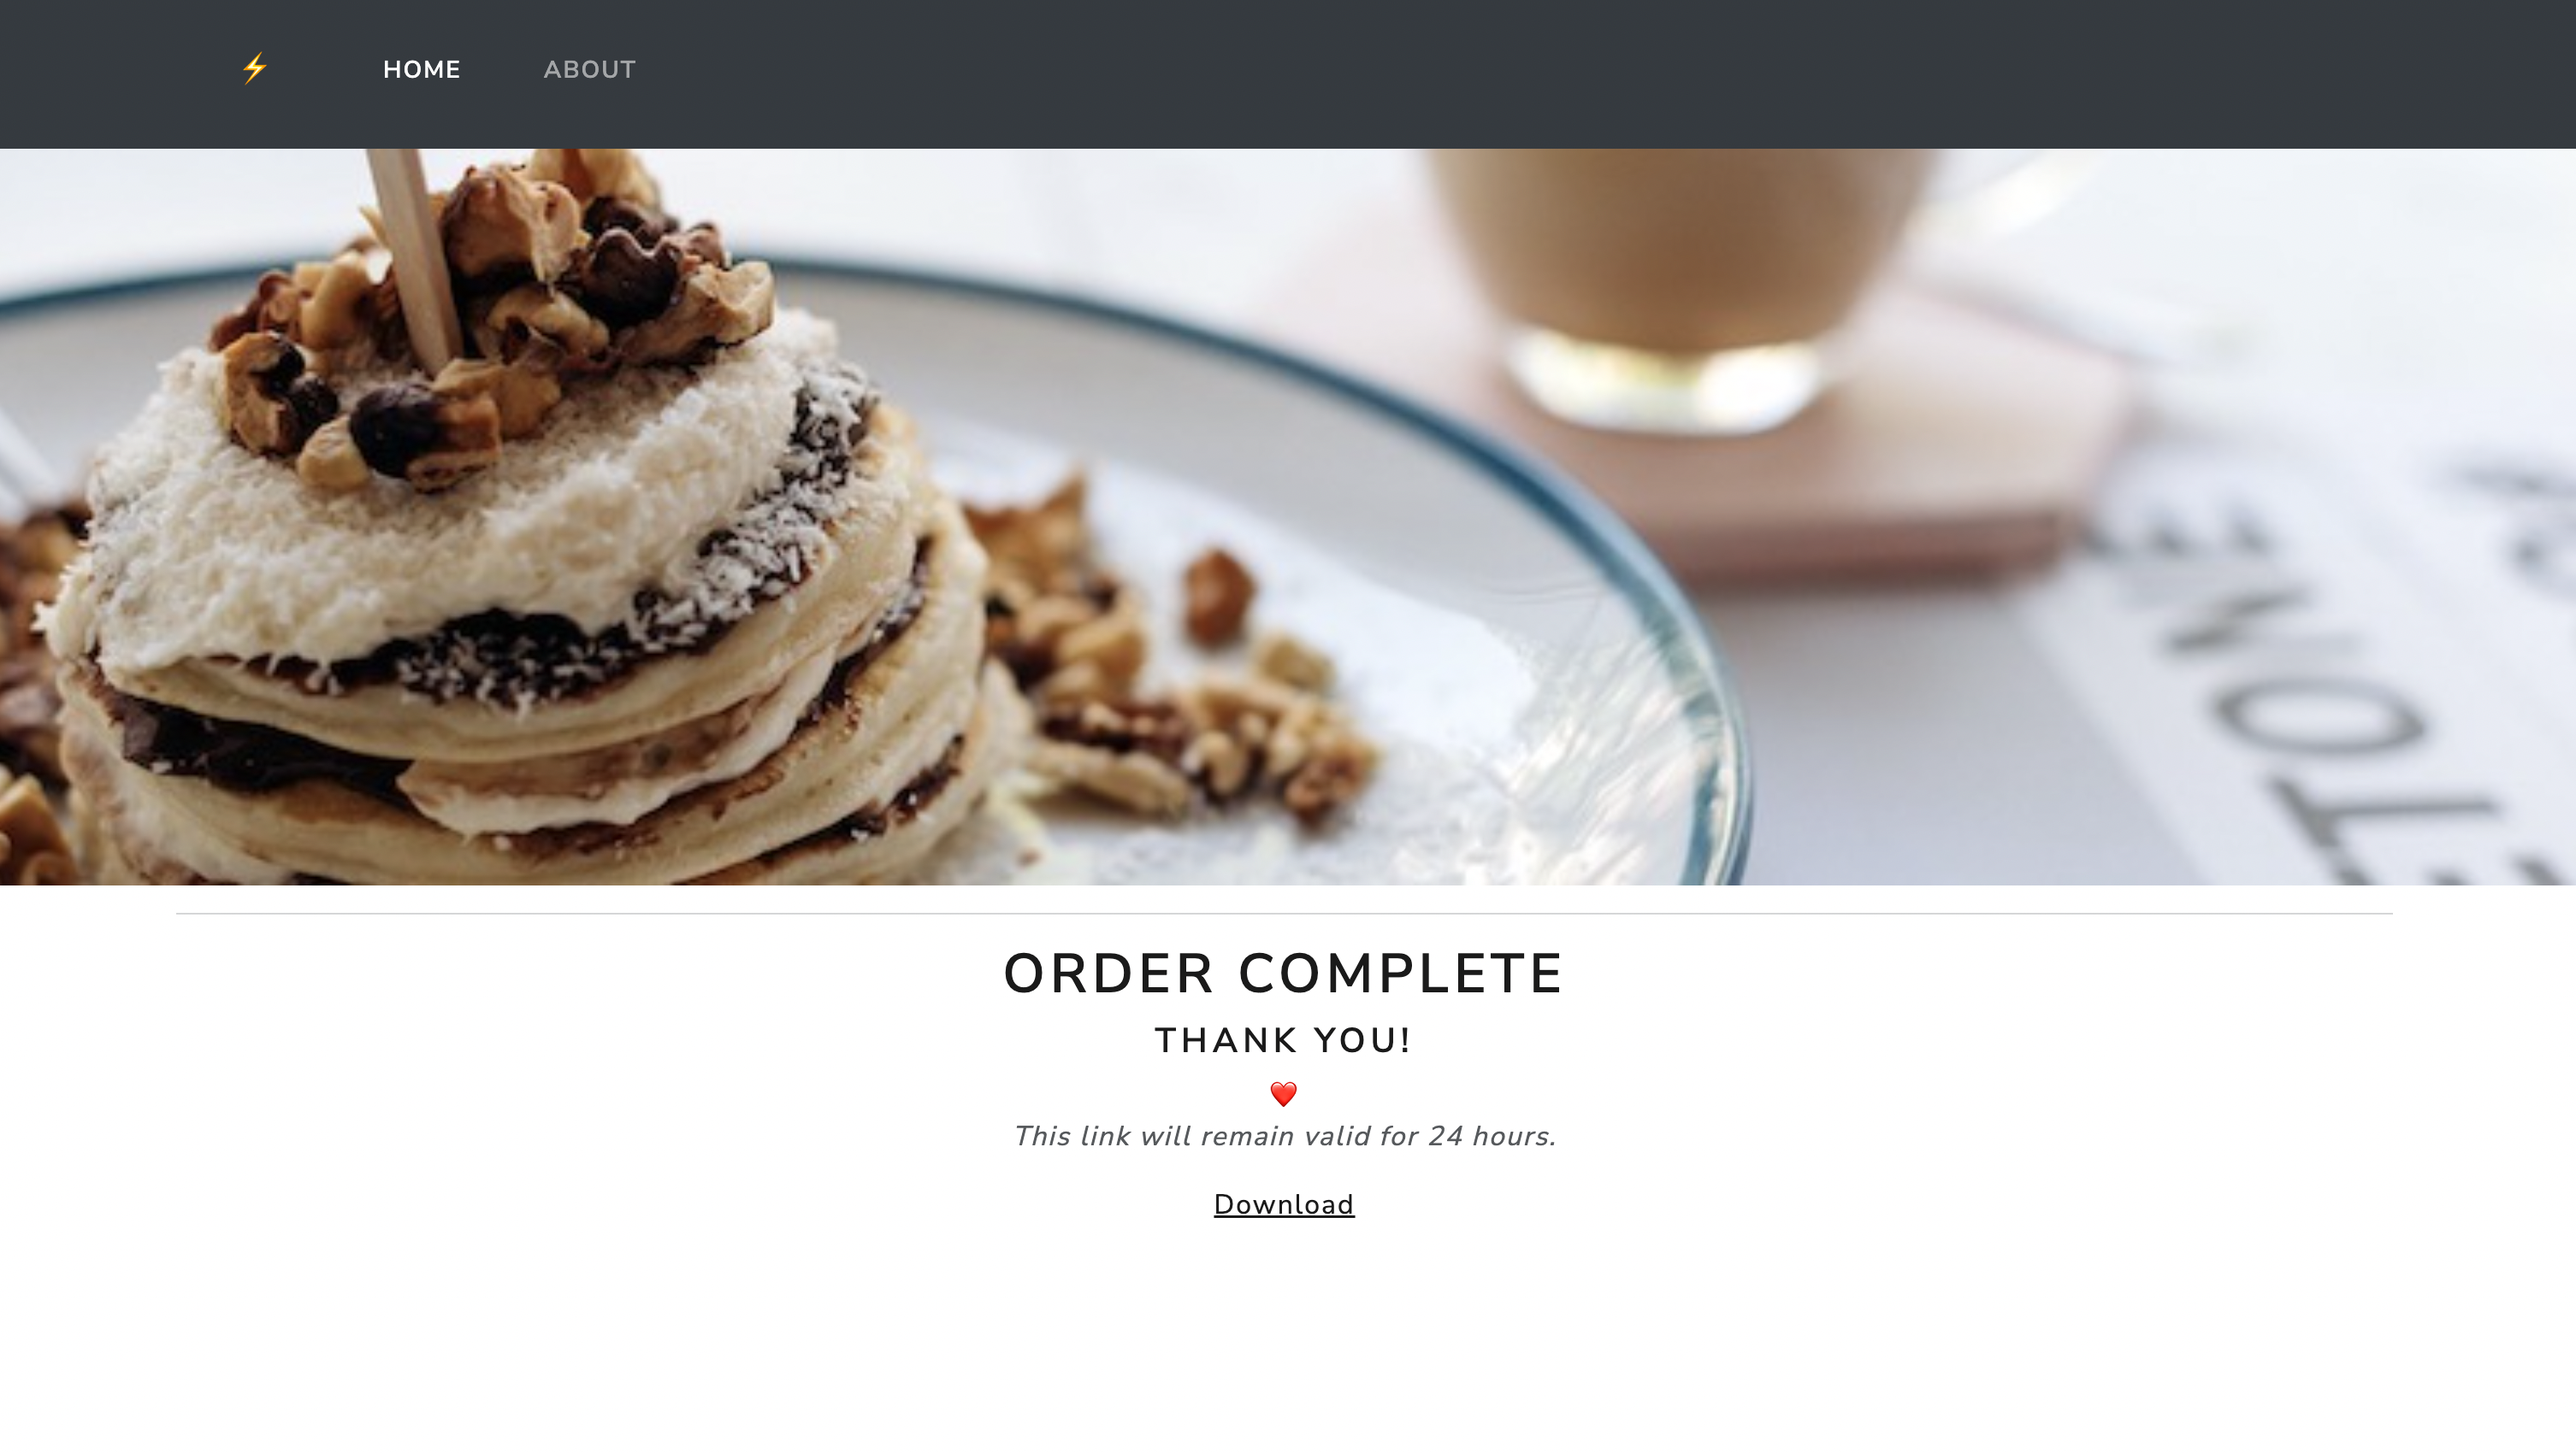
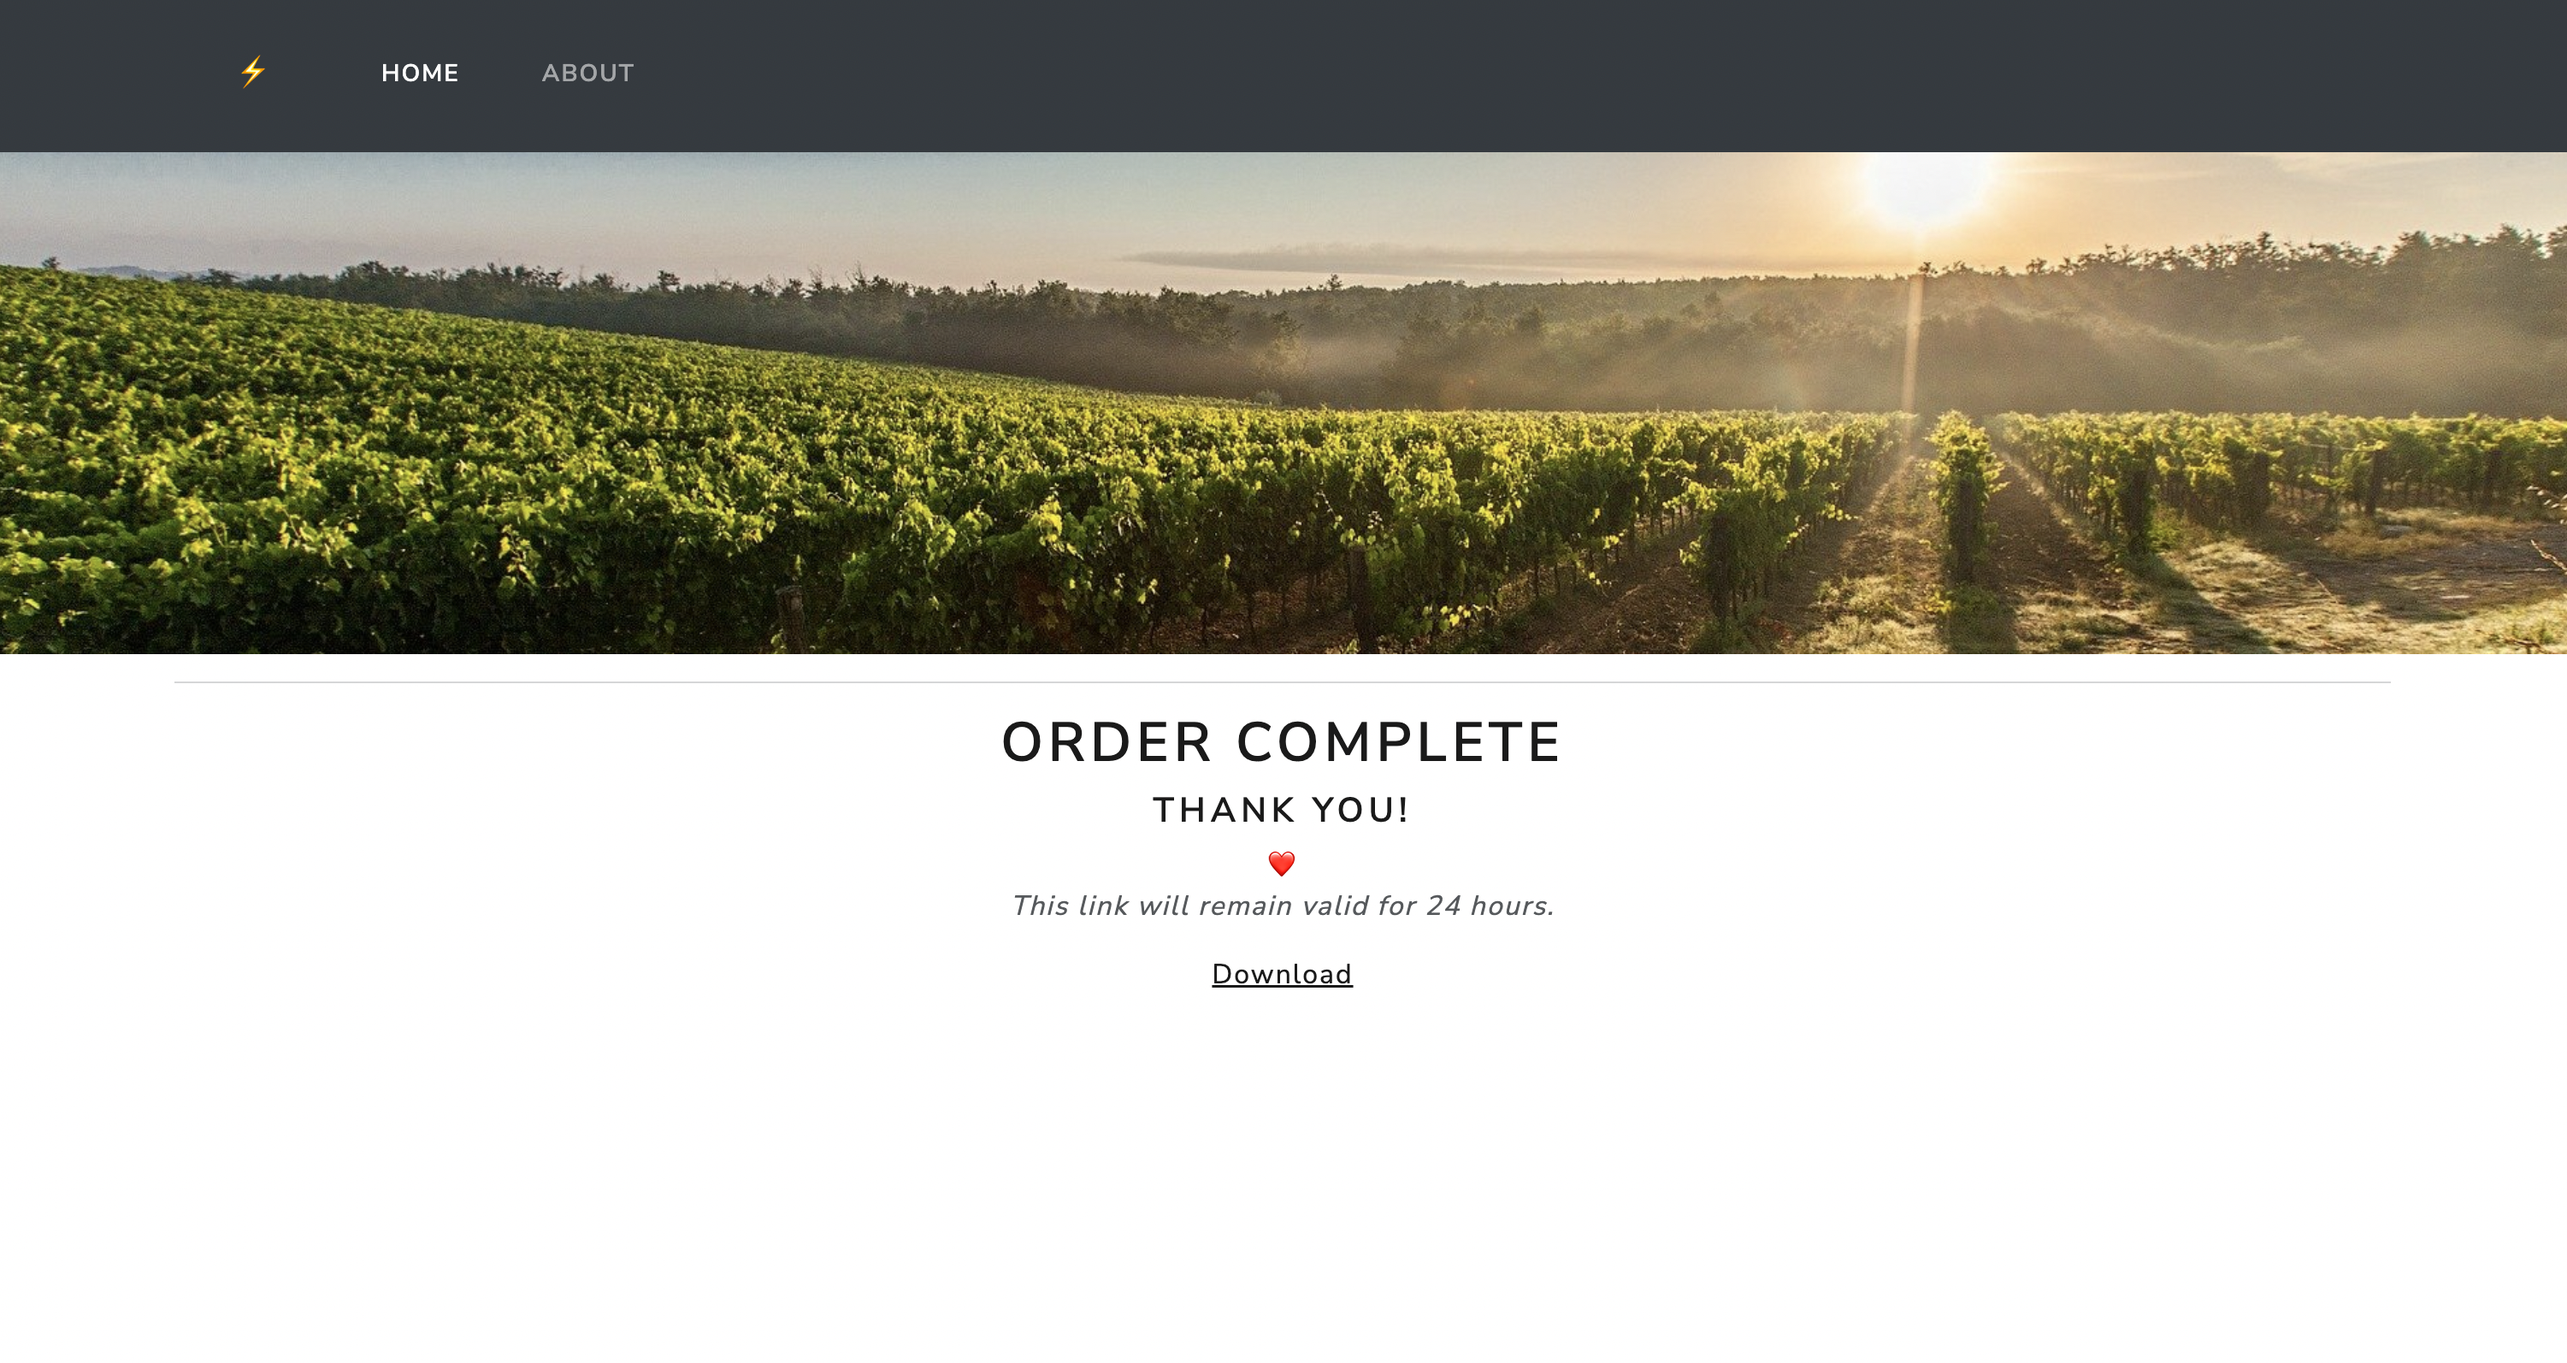
More cleanup on product page

diff --git a/templates/product.html b/templates/product.html
@@ -6,7 +6,7 @@
         <div class="row justify-content-center">
 
 
-<div>
+<div class="row">
 
   <!-- product image-->
   <center>
@@ -14,14 +14,16 @@
   {% for tag in item.tags %}
     <span class="badge bg-primary">{{ tag }}</span>
   {% endfor %}
-  <hr>
-  <img width=75% src="/static/images/{{ item.image }}" data-bs-toggle="modal" data-bs-target="#Modal" data-bs-target="#staticBackdrop" />
 
-  <!-- product details-->
   <hr>
-  <pre>{{ item.description }}</pre>
 
-  <button type="button" class="btn btn-success" data-bs-toggle="modal" data-bs-target="#Modal" data-bs-target="#staticBackdrop">
+  <div class="clearfix">
+    <img class="img-fluid col-md-6 float-md-end mb-3 ms-md-3" src="/static/images/{{ item.image }}" data-bs-toggle="modal" data-bs-target="#Modal" data-bs-target="#staticBackdrop" />
+        <p>{{ item.description }}</p>
+  </div>
+
+  <hr>
+  <button type="button" class="btn btn-info" data-bs-toggle="modal" data-bs-target="#Modal" data-bs-target="#staticBackdrop">
     Buy - {{ "$%.2f"|format(item.price) }}
   </button>
 

diff --git a/templates/modal.html b/templates/modal.html
@@ -9,7 +9,7 @@
       <div class="modal-body">
         <center>
 
-          <button id="buy-button" type="button" class="btn btn-primary" onclick="createInvoice('', '{{ item.name }}', '{{ item.price }}');">Create Lightning Invoice ⚡</button>
+          <button id="buy-button" type="button" class="btn btn-primary" onclick="createInvoice('{{ item.name }}', '{{ item.price }}');">Create Lightning Invoice ⚡</button>
 
           <div class="qr-content" style="display: none;">
             <p id=invoice_id></p>

diff --git a/templates/base.html b/templates/base.html
@@ -30,7 +30,7 @@
 
       <!-- Header-->
       <header>
-        <img src="/static/images/banner.jpeg" class="img-fluid" width="100%">
+        <img src="/static/images/banner.png" class="img-fluid" width="100%">
       </header>
 
       <div class="content">

diff --git a/app.py b/app.py
@@ -66,12 +66,7 @@ def receipt(invoice_id):
     """
 
     # Get list of items
-    # TODO add func
-    items = []
-    items_path = 'inventory.yaml'
-    if os.path.exists(items_path):
-        with open(items_path) as f:
-            items = yaml.safe_load(f.read())
+    items = get_items()
 
     invoice = strike.get_invoice(invoice_id)
 
@@ -102,12 +97,7 @@ def download(invoice_id):
     """
 
     # Get list of items
-    # TODO add func
-    items = []
-    items_path = 'inventory.yaml'
-    if os.path.exists(items_path):
-        with open(items_path) as f:
-            items = yaml.safe_load(f.read())
+    items = get_items()
 
     invoice = strike.get_invoice(invoice_id)
 

diff --git a/README.md b/README.md
@@ -10,9 +10,9 @@ Take back ownership of your market!
 
 ![1_home.png](/screenshoots/1_home.png)
 
-![2_home.png](/screenshoots/2_pay_with_lightning.png)
+![2_home.png](/screenshoots/2_product.png)
 
-![3_home.png](/screenshoots/3_wait_for_payment.png)
+![3_home.png](/screenshoots/3_pay_with_lightning.png)
 
 ![4_home.png](/screenshoots/4_thankyou.png)
 
@@ -54,8 +54,12 @@ Our inventory file contains a **key** called `images` for each product:
 *inventory.yaml*
 ```
 - name: Pancakes
-  description: More like tasty cakes
-  price: 0.05
+  tags:
+    - Tasty
+  description: |
+    More like tasty cakes, like very very tasty!
+    ...
+  price: 0.01
   image: pancakes.jpeg
   content: pancakes.jpeg
 ```
